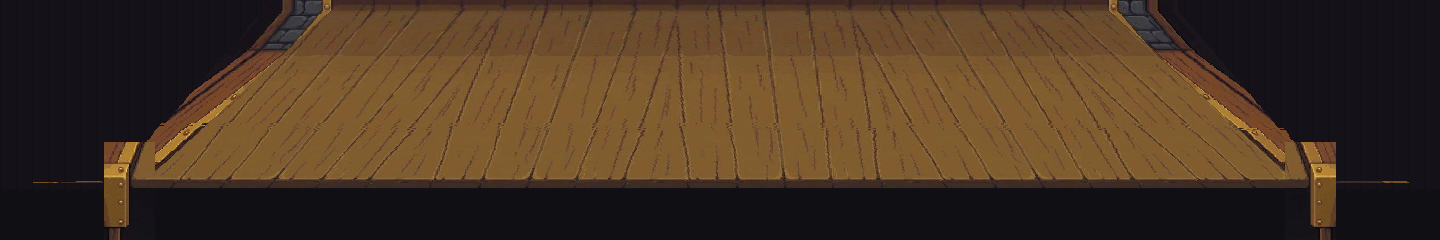
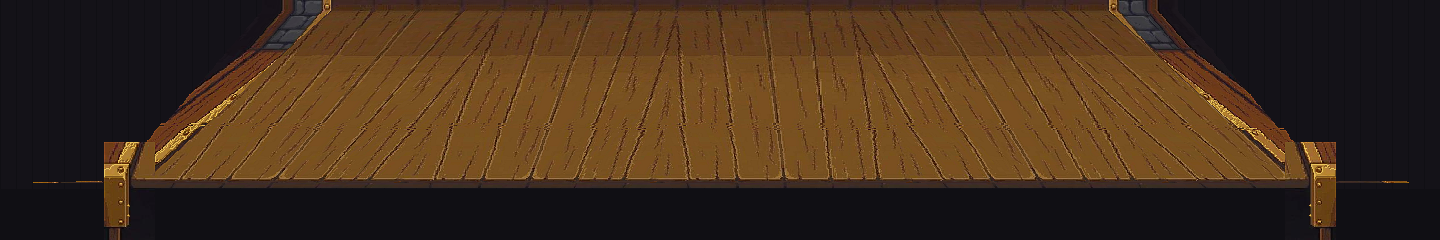
Update COINFRONT Pages demo with checked build
Overwrite coinfront/ with the latest checked static build, including
updated backgrounds, unit sprites, CSS, and game JS for phone testing.

diff --git a/coinfront/js/game.js b/coinfront/js/game.js
@@ -611,10 +611,16 @@
       const shopPanel = document.getElementById('shopPanel');
       function setShopOpen(open) {
         if (!btnToggleShop || !shopPanel) return;
-        btnToggleShop.setAttribute('aria-expanded', open ? 'true' : 'false');
-        shopPanel.hidden = !open;
-        const lab = btnToggleShop.querySelector('.shop-toggle-label');
-        if (lab) lab.textContent = open ? '收起商店' : '商店';
+        try {
+          if (typeof btnToggleShop.setAttribute === 'function') {
+            btnToggleShop.setAttribute('aria-expanded', open ? 'true' : 'false');
+          }
+          shopPanel.hidden = !open;
+          const lab = typeof btnToggleShop.querySelector === 'function'
+            ? btnToggleShop.querySelector('.shop-toggle-label')
+            : null;
+          if (lab) lab.textContent = open ? '收起商店' : '商店';
+        } catch (_) {}
       }
       function isShopOpen() {
         return btnToggleShop && btnToggleShop.getAttribute('aria-expanded') === 'true';
@@ -1274,19 +1280,31 @@
           saveMeta(m);
           showToast('🏰 守住第十二波！邊關暫時穩固，可繼續無盡守城。');
         }
+        if (typeof setShopOpen === 'function') setShopOpen(false);
         const taken = new Set(state.relicIds);
         let pool = UPGRADE_POOL.filter(u => !(u.unique && taken.has(u.id)) && !(u.id === 'side_walls' && state.sideWalls));
         pool = pool.sort(() => Math.random() - 0.5);
-        // After a boss, try to include one rare/economy pick so the 3-choice stays distinct
+        // After a boss, try to include one rare/economy/defense pick so the 3-choice stays distinct
         if (isBossClear) {
           const rare = pool.filter(u => u.tag === '稀有兵' || u.tag === '經濟' || u.tag === '城防');
           const rest = pool.filter(u => !rare.includes(u));
-          pool = [...rare.slice(0, 1), ...rest].slice(0, 3);
-          if (pool.length < 3) pool = UPGRADE_POOL.slice().sort(() => Math.random() - 0.5).slice(0, 3);
-        } else {
-          pool = pool.slice(0, 3);
+          pool = [...rare.slice(0, 1), ...rest];
+        }
+        pool = pool.slice(0, 3);
+        // Never open a frozen draft with fewer than 3 tappable choices
+        if (pool.length < 3) {
+          const extra = UPGRADE_POOL.filter(u => !pool.some(p => p.id === u.id))
+            .sort(() => Math.random() - 0.5);
+          pool = pool.concat(extra).slice(0, 3);
         }
 
+        if (!upgradeChoices || !upgradeModal) {
+          state.drafting = false;
+          showToast('三選一開啟失敗，自動繼續下一波。');
+          state.wave += 1;
+          state.rearmTimer = 2.4;
+          return;
+        }
         upgradeChoices.innerHTML = '';
         pool.forEach(u => {
           const btn = document.createElement('button');
@@ -1300,6 +1318,13 @@
           btn.addEventListener('click', () => applyUpgrade(u));
           upgradeChoices.appendChild(btn);
         });
+        if (!upgradeChoices.children || upgradeChoices.children.length === 0) {
+          state.drafting = false;
+          showToast('沒有可選升級，自動繼續下一波。');
+          state.wave += 1;
+          state.rearmTimer = 2.4;
+          return;
+        }
 
         upgradeModal.classList.remove('hidden');
         upgradeModal.classList.add('flex');
@@ -2724,7 +2749,36 @@
         if (rafId) cancelAnimationFrame(rafId);
         lastTs = 0;
         rafId = requestAnimationFrame(loop);
+        // Hidden screenshot/self-check hook. Normal play never sets ?qa=.
+        try {
+          const qa = new URLSearchParams(location.search).get('qa');
+          if (qa === 'draft2') {
+            state.wave = 2;
+            state.spawnLeft = 0;
+            state.enemies = [];
+            state.waveActive = true;
+            state.drafting = false;
+            openUpgradeDraft();
+          } else if (qa === 'preview') {
+            state.paused = true;
+          }
+        } catch (_) {}
       }
       if (document.readyState === 'complete') boot();
       else window.addEventListener('load', boot);
+
+      // Hidden QA hook for self-checks (no effect on a normal play session).
+      try {
+        window.__coinfrontQa = {
+          get state() { return state; },
+          openUpgradeDraft,
+          applyUpgrade,
+          startWave,
+          update,
+          spawnEnemy,
+          UPGRADE_POOL,
+          pickBossKind,
+          waveRosterCount
+        };
+      } catch (_) {}
     })();

diff --git a/coinfront/css/styles.css b/coinfront/css/styles.css
@@ -489,7 +489,9 @@ img.px-icon {
   align-items: center;
   justify-content: center;
   background: rgba(9, 8, 6, 0.86);
-  padding: 20px;
+  padding: max(12px, env(safe-area-inset-top)) max(16px, env(safe-area-inset-right)) max(12px, env(safe-area-inset-bottom)) max(16px, env(safe-area-inset-left));
+  overflow: hidden;
+  pointer-events: auto;
 }
 
 .modal.open,
@@ -506,8 +508,10 @@ img.px-icon {
   border-radius: 8px;
   box-shadow: 0 24px 60px rgba(0, 0, 0, 0.55), inset 0 1px 0 rgba(232, 195, 90, 0.12);
   padding: 22px;
-  max-height: calc(100dvh - 32px);
+  max-height: min(90dvh, calc(100dvh - 24px));
   overflow-y: auto;
+  -webkit-overflow-scrolling: touch;
+  overscroll-behavior: contain;
 }
 
 .modal-card.upgrade { max-width: 920px; }
@@ -712,9 +716,21 @@ img.px-icon {
     font-size: 12px;
   }
 
-  #upgradeChoices { grid-template-columns: 1fr; }
-  .modal { padding: 12px; }
+  #upgradeChoices { grid-template-columns: 1fr; gap: 8px; margin-top: 10px; }
+  .modal {
+    padding: max(8px, env(safe-area-inset-top)) 10px max(10px, env(safe-area-inset-bottom));
+    align-items: flex-start;
+    padding-top: max(16px, env(safe-area-inset-top), 8px);
+  }
+  .modal.flex, .modal.open { align-items: flex-start; }
+  .modal-card { padding: 14px 12px; max-height: calc(100dvh - 24px); }
   .modal-card.upgrade, .modal-card.help, .modal-card.over { max-width: 28rem; }
+  .modal-card h3 { font-size: 1.05rem; }
+  .modal-lead { font-size: 12px; }
+  .upgrade-pick { padding: 10px; gap: 4px; min-height: 44px; }
+  .upgrade-ico { width: 32px; height: 32px; font-size: 1.1rem; }
+  .upgrade-name { font-size: 13px; }
+  .upgrade-desc { font-size: 11px; line-height: 1.35; }
 }
 
 @media (min-width: 821px) and (max-height: 760px) {
